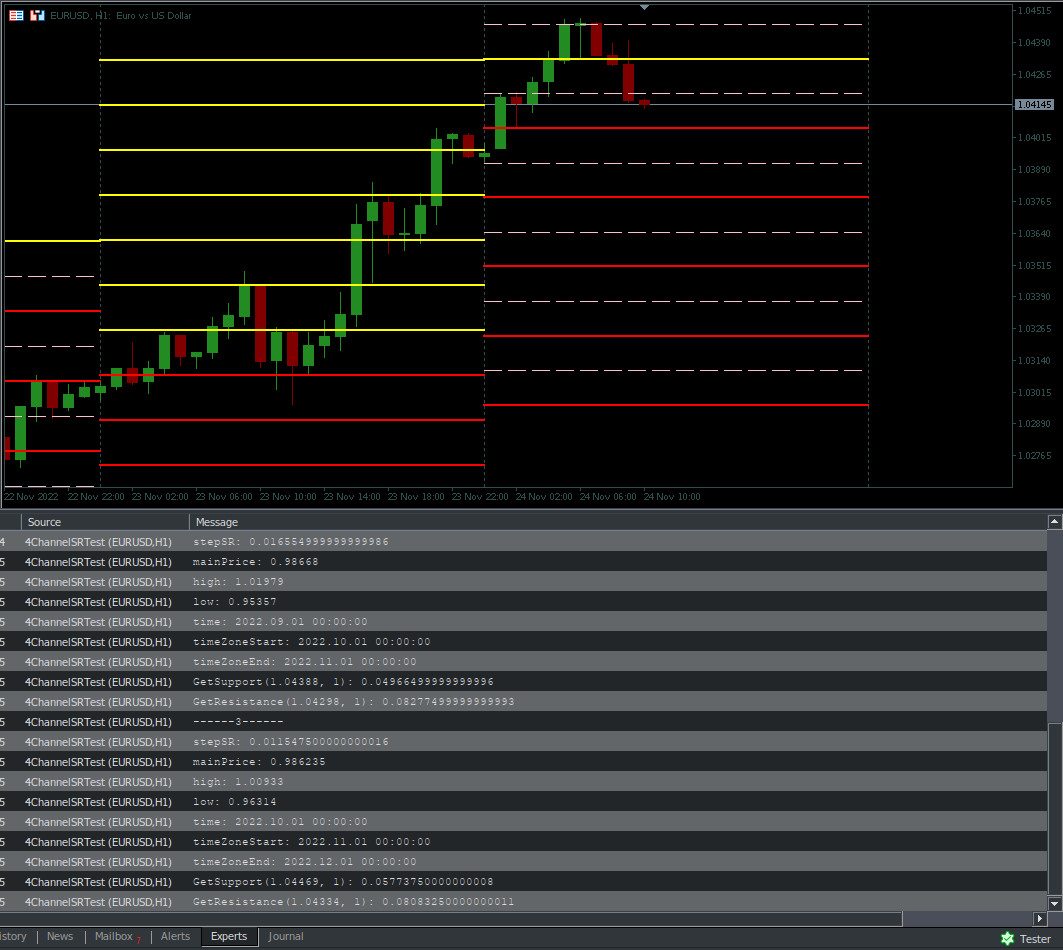
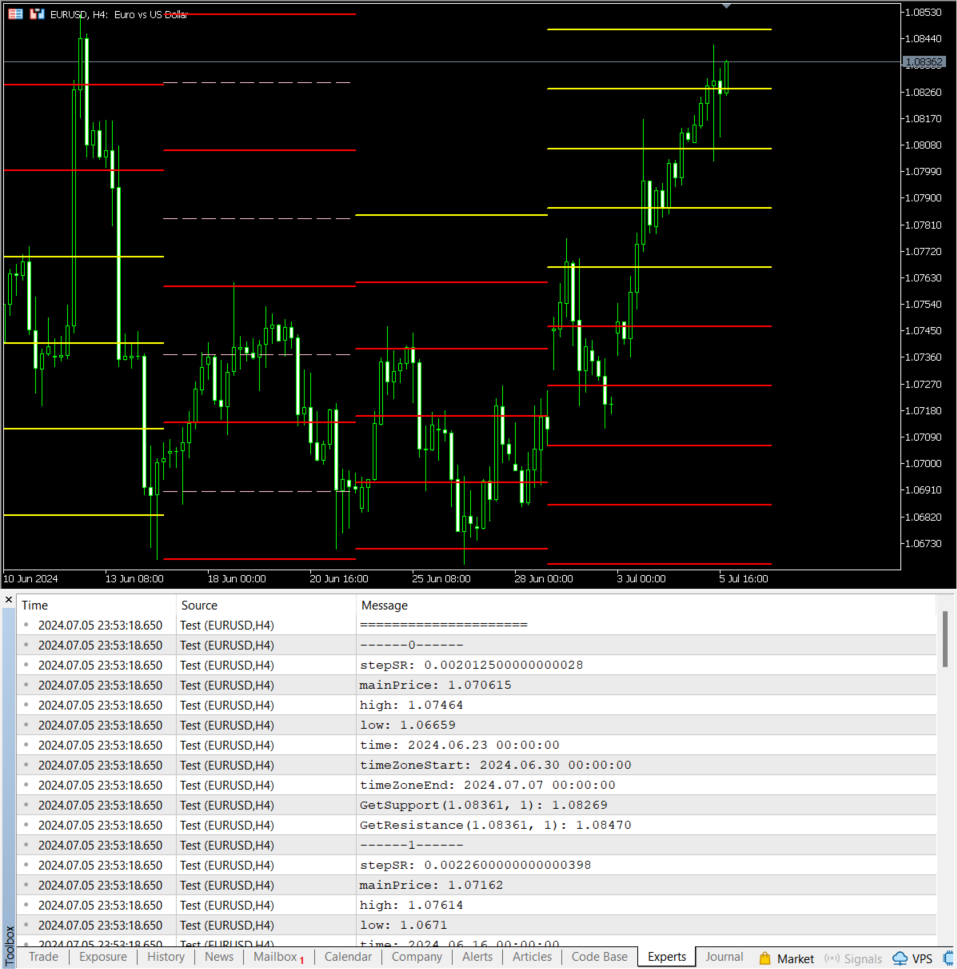
v1.02

diff --git a/README.md b/README.md
@@ -34,7 +34,7 @@ C4ChannelSR Chsr;
 //+------------------------------------------------------------------+
 void OnStart()
 {
-   if (! Chsr.Init(_Symbol, PERIOD_MN1, 5))
+   if (! Chsr.Init(_Symbol, FCHSR_PERIOD_W1, 10))
    {
       Alert("Error initializing 4ChannelSR");
       return;
@@ -45,14 +45,16 @@ void OnStart()
       return;
    }
    
-   double high, low;
    ChannelSRInfo ChsrInfo;
+   double supportPrice, resistancePrice;
+   double bid = SymbolInfoDouble(_Symbol, SYMBOL_BID);
+   string bidStr = DoubleToString(bid, _Digits);
    
-   for (int i=0;i<Chsr.Total();i++)
+   for (int i = 0; i < Chsr.Total(); i++)
    {
       ChsrInfo = Chsr.At(i);
-      high = iHigh(_Symbol,_Period,i);
-      low = iLow(_Symbol,_Period,i);
+      supportPrice = ChsrInfo.GetSupport(bid, 1);          // Support 1
+      resistancePrice = ChsrInfo.GetResistance(bid, 1);    // Resistance 1
       
       Print("------", i, "------");
       Print("stepSR: ", ChsrInfo.stepSR);
@@ -62,8 +64,8 @@ void OnStart()
       Print("time: ", ChsrInfo.time);
       Print("timeZoneStart: ", ChsrInfo.timeZoneStart);
       Print("timeZoneEnd: ", ChsrInfo.timeZoneEnd);
-      Print("GetSupport(",high,", 1): ", ChsrInfo.GetSupport(high, 1));
-      Print("GetResistance(",low,", 1): ", ChsrInfo.GetResistance(low, i));
+      Print(StringFormat("GetSupport(%s, 1): %s", bidStr, DoubleToString(supportPrice, _Digits)));
+      Print(StringFormat("GetResistance(%s, 1): %s", bidStr, DoubleToString(resistancePrice, _Digits)));
    }
 }
 
